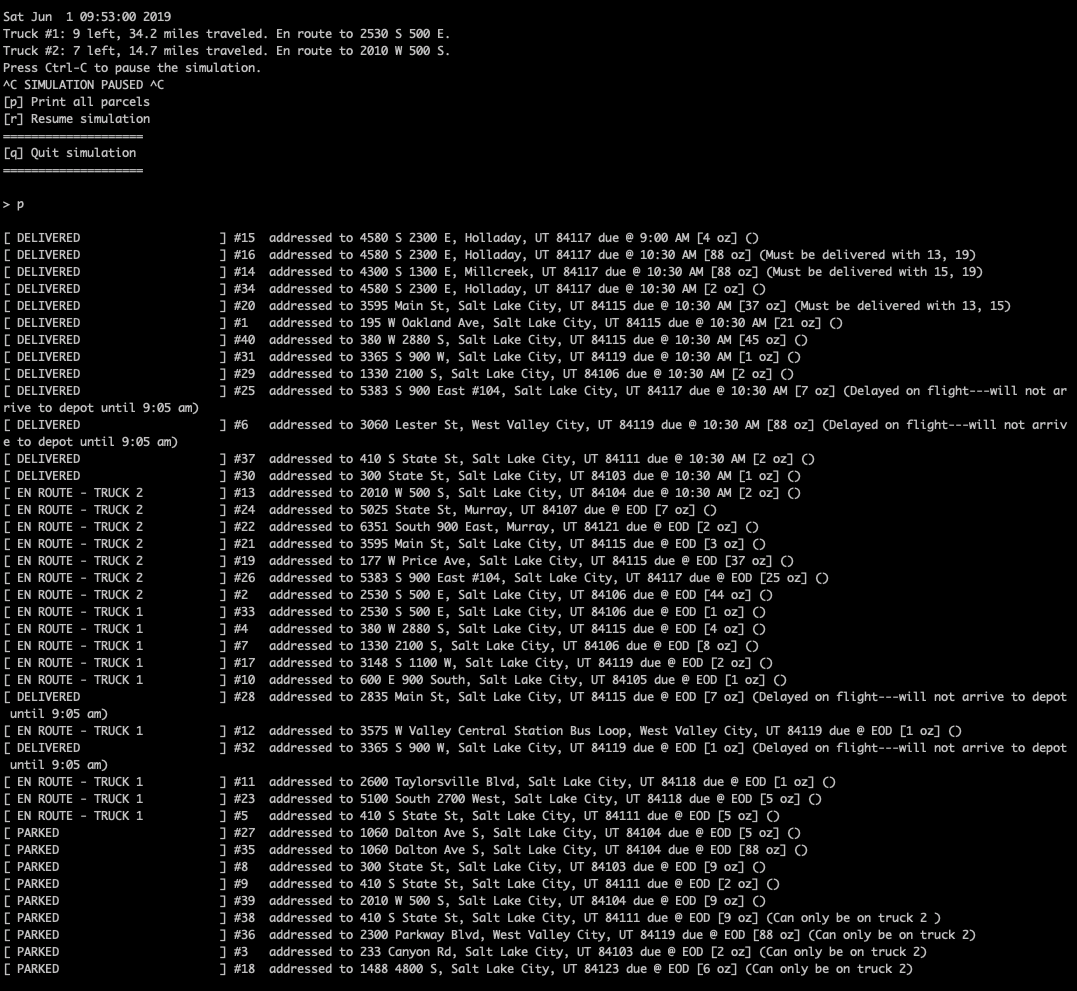
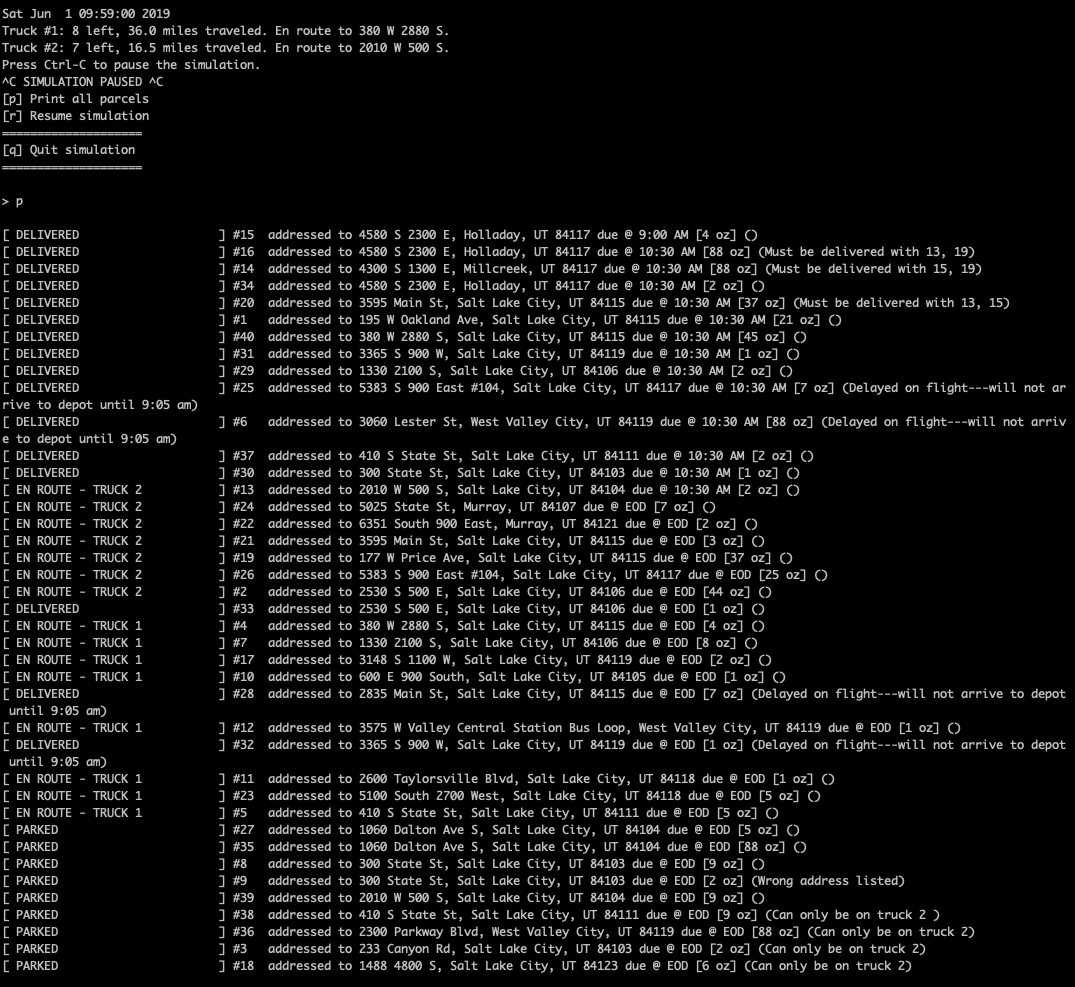
Adhoc | Still working on this.

Changed region(s): [[0.1842, 0.2128, 0.9823, 0.7599], [0.1842, 0.7903, 0.8902, 1.0], [0.0, 0.0, 0.4298, 1.0]]

diff --git a/src/main.py b/src/main.py
@@ -54,7 +54,7 @@ class Application:
         print('Syncing clock.')
         self.current_time = datetime.datetime(2019, 6, 1, 8, 0, 0).timestamp()
         print('Starting timer.')
-        self.app_clock = clock.Clock(600, 1, 600, is_repeating=True)
+        self.app_clock = clock.Clock(1, 1, 0, is_repeating=True)
         self.app_clock.start()
 
         print('Beginning application.')
@@ -96,14 +96,20 @@ class Application:
         print(self.pqueue)
         return False
 
+    def find_package(self, _id):
+        # This finds the package in the priority queue.
+        queue = self.pqueue.contents()
+        queue_item = self.pqueue.find(_id)
+        queue_index = queue.index(queue_item)
+        return queue, queue_item, queue_index
+
     def update_packages(self, event = None):
         # This allows us to update the packages based on a dictionary similar to the package itself.
         if not event:
             return
+
+        queue, queue_item, queue_index = self.find_package(event['id'])
         
-        queue = self.pqueue.contents()
-        queue_item = self.pqueue.find(event['id'])
-        queue_index = self.pqueue.contents().index(queue_item)
         if not queue_item:
             return
         
@@ -118,6 +124,7 @@ class Application:
     def update(self):
         # This is the main update loop.
         flight_arrival = datetime.datetime(2019, 6, 1, 9, 5, 0).timestamp()
+        information_update_time = datetime.datetime(2019, 6, 1, 10, 20, 0).timestamp()
         try:
             # It's rather difficult to get key presses in Python 3 without libraries.
             # So, I catch Ctrl-C (KeyboardInterrupt) and let that be the 'pause' key.
@@ -149,12 +156,14 @@ class Application:
                     self.current_time += 60
                     if self.current_time == flight_arrival:
                         # When the flight arrives and we have all the packages, we send out the other truck.
-                        self.update_packages({ 'id': '9', 'address': '410 S State St', 'city': 'Salt Lake City', 'state': 'UT', 'zip_code': '84111', 'special_notes': '' })
                         truck_2 = Truck(2, 'Driver 2', 16, self.route_graph.get_node_by_address('Hub'))
                         for item in self.pqueue.contents()[10:20]:
                             truck_2.load_package(item.value)
                             self.update_packages({ 'id': item.identifier, 'status': 'EN ROUTE - TRUCK 2' })
                         self.trucks.append(truck_2)
+                    if self.current_time == information_update_time:
+                        self.update_packages({ 'id': '9', 'address': '410 S State St', 'city': 'Salt Lake City', 'state': 'UT', 'zip_code': '84111', 'special_notes': '' })
+
 
                     if len(self.trucks) > 1 and self.trucks[0].finished and self.trucks[1].finished:
                         # If both trucks have completed their rounds, we're done.

diff --git a/src/utils/entities.py b/src/utils/entities.py
@@ -118,10 +118,10 @@ class Truck:
         self.times_resupplied = 0
         self.finished = False
 
-    def load_package(self, package):
+    def load_package(self, package, priority = 0):
         # This loads the package into the truck and sorts it again to ensure the weighting is maintained.
         self.packages.append(package)
-        get_priority = lambda item: item.deadline_timestamp - 1000 if 'Delayed' in item.special_notes else item.deadline_timestamp
+        get_priority = lambda item: item.deadline_timestamp + priority - 5000 if 'Delayed' in item.special_notes else item.deadline_timestamp + priority
         self.packages.sort(key = get_priority)
 
     def deliver_package(self, pqueue, current_time):
@@ -169,7 +169,7 @@ class Truck:
             # If it doesn't have a destination, try to give it one.
             if len(self.packages):
                 # If it has packages, go to the next destination.
-                self.next_node = route_graph.get_node_by_address(self.packages[0].address)
+                self.next_node = route_graph.get_closest_node(self.current_node, self.packages)
                 self.remaining_distance = float(route_graph.get_edge_by_addresses(self.current_node.address, self.next_node.address).distance)
             else:
                 # Otherwise, go back to the Hub to resupply.

diff --git a/src/utils/graph.py b/src/utils/graph.py
@@ -85,6 +85,19 @@ class Graph:
             return None
         return self.edges[selected_edge_id.pop()]
 
+    def get_closest_node(self, current_node, packages):
+        all_edges = self.show_edges(current_node.id)
+        all_edges.sort(key = lambda edge: edge.distance)
+
+        for edge in all_edges:
+            for package in packages:
+                current_node = self.get_node_by_address(package.address)
+                print(current_node.id, edge.node_id_2)
+                if str(current_node.id) == str(edge.node_id_2):
+                    return current_node
+
+        return self.get_node_by_address(packages[0].address)
+    
 def generate():
     # Using these pseudo-relational flat files, we're going to generate the graph needed for routing.
     new_graph = Graph()

diff --git a/src/utils/queue.py b/src/utils/queue.py
@@ -7,7 +7,8 @@ class PriorityQueueItem:
         self.value = item_value
 
 class PriorityQueue():
-    # This is my priority queue class.
+    # This is my priority queue class. Combined with
+    # PriorityQueueItem, this doubles as my hash table.
     def __init__(self):
         # Set up.
         self.items = []
